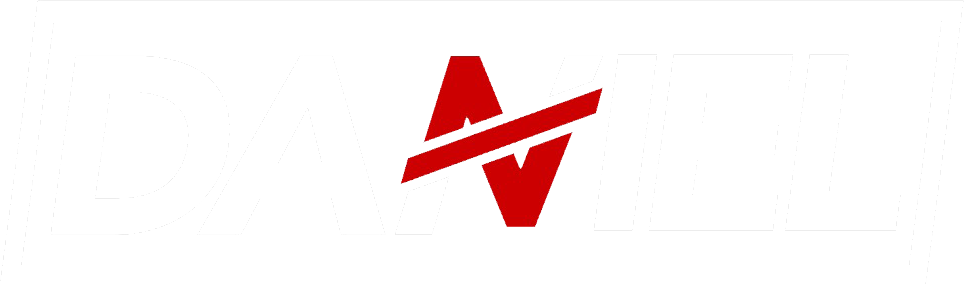
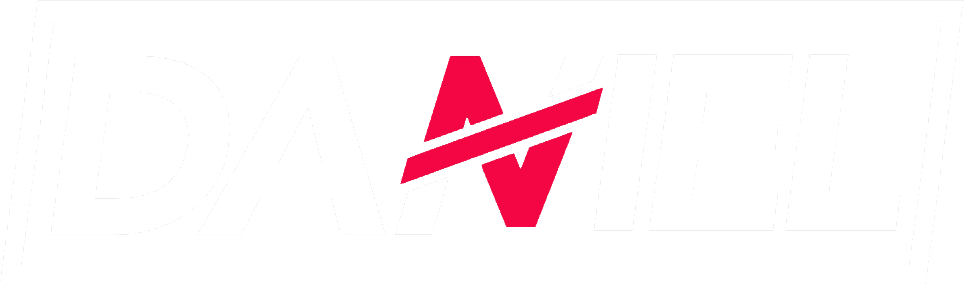
Cambios en los colores

Changed region(s): [[0.4046, 0.1972, 0.6224, 0.8169]]

diff --git a/src/sass/main.scss b/src/sass/main.scss
@@ -628,7 +628,7 @@ select.portfolio-filter-mobile {
 				color: #454360;
 
 				&:hover {
-					color: #FF4C60;
+					color: #F40543;
 				}
 			}
 		}
@@ -693,10 +693,10 @@ select.portfolio-filter-mobile {
 	}
 
 	.blog-standard .meta li a {
-		color: #353353;
+		color: #05253A;
 
 		&:hover {
-			color: #ff4c60;
+			color: #F40543;
 		}
 	}
 
@@ -710,7 +710,7 @@ select.portfolio-filter-mobile {
 			line-height: 1;
 			padding: 12px 32px;
 			color: #fff;
-			background: #ff4c60;
+			background: #F40543;
 			display: inline-block;
 			vertical-align: middle;
 			position: relative;
@@ -760,7 +760,7 @@ select.portfolio-filter-mobile {
 
 	.widget .searchform input[type=submit] {
 		color: #fff;
-		background: #ff4c60;
+		background: #F40543;
 		border-radius: 25px;
 		padding: 5px 20px;
 		border: 0;
@@ -840,7 +840,7 @@ select.portfolio-filter-mobile {
 		line-height: 1;
 		padding: 12px 32px;
 		color: #fff;
-		background: #ff4c60;
+		background: #F40543;
 		display: inline-block;
 		vertical-align: middle;
 		position: relative;
@@ -914,7 +914,7 @@ select.portfolio-filter-mobile {
 						border-radius: 20px;
 						padding: 0px 10px;
 						display: inline-block;
-						background-color: #ff4c60;
+						background-color: #F40543;
 					}
 				}
 			}

diff --git a/src/components/sections/About.js b/src/components/sections/About.js
@@ -27,7 +27,7 @@ const progressData = [
     id: 2,
     title: "Desarrollo de interfases UX/UI",
     percantage: 95,
-    progressColor: "#FF4C60",
+    progressColor: "#F40543",
   },
   {
     id: 3,
@@ -65,14 +65,14 @@ const progressData = [
 const counterData = [
   {
     id: 1,
-    title: "Proyecos Completados",
+    title: "Proyectos Completados",
     count: 25,
     icon: "icon-fire",
   },
   {
     id: 2,
     title: "Tazas de Cafe",
-    count: 3549,
+    count: 4130,
     icon: "icon-cup",
   },
   {
@@ -107,11 +107,11 @@ function About() {
               <div className="row">
                 <div className="col-md-6">
                   <p style={{ textAlign: "justify" }}>{aboutContent.content}</p>
-                  <div className="mt-4">
+                  {/* <div className="mt-4">
                     <a href="!#" className="btn btn-default">
                       Descargar CV
                     </a>
-                  </div>
+                  </div> */}
                   <div
                     className="spacer d-md-none d-lg-none"
                     data-height="30"

diff --git a/src/components/sections/Herosection.js b/src/components/sections/Herosection.js
@@ -129,7 +129,7 @@ function Herosection(props) {
           >
             <path
               d="M13 3.3541L2.42705 24.5h21.1459L13 3.3541z"
-              stroke="#FF4C60"
+              stroke="#F40543"
               strokeWidth="3"
               fill="none"
               fillRule="evenodd"
@@ -193,7 +193,7 @@ function Herosection(props) {
             xmlns="http://www.w3.org/2000/svg"
             style={activeParallax(18)}
           >
-            <g fill="#FF4C60" fillRule="evenodd">
+            <g fill="#F40543" fillRule="evenodd">
               <path d="M.5 16.5c0-5.71709 2.3825-10.99895 6.25-13.8567 3.8675-2.85774 8.6325-2.85774 12.5 0C23.1175 5.50106 25.5 10.78292 25.5 16.5H23c0-4.57303-1.90625-8.79884-5-11.08535-3.09375-2.28652-6.90625-2.28652-10 0C4.90625 7.70116 3 11.92697 3 16.5H.5z" />
               <path d="M23.5 16.5c0-5.71709 2.3825-10.99895 6.25-13.8567 3.8675-2.85774 8.6325-2.85774 12.5 0C46.1175 5.50106 48.5 10.78292 48.5 16.5H46c0-4.57303-1.90625-8.79884-5-11.08535-3.09375-2.28652-6.90625-2.28652-10 0-3.09375 2.28651-5 6.51232-5 11.08535h-2.5z" />
             </g>

diff --git a/src/components/sections/HerosectionLight.js b/src/components/sections/HerosectionLight.js
@@ -117,7 +117,7 @@ function Herosection(props) {
           >
             <path
               d="M13 3.3541L2.42705 24.5h21.1459L13 3.3541z"
-              stroke="#FF4C60"
+              stroke="#F40543"
               strokeWidth="3"
               fill="none"
               fillRule="evenodd"
@@ -181,7 +181,7 @@ function Herosection(props) {
             xmlns="http://www.w3.org/2000/svg"
             style={activeParallax(18)}
           >
-            <g fill="#FF4C60" fillRule="evenodd">
+            <g fill="#F40543" fillRule="evenodd">
               <path d="M.5 16.5c0-5.71709 2.3825-10.99895 6.25-13.8567 3.8675-2.85774 8.6325-2.85774 12.5 0C23.1175 5.50106 25.5 10.78292 25.5 16.5H23c0-4.57303-1.90625-8.79884-5-11.08535-3.09375-2.28652-6.90625-2.28652-10 0C4.90625 7.70116 3 11.92697 3 16.5H.5z" />
               <path d="M23.5 16.5c0-5.71709 2.3825-10.99895 6.25-13.8567 3.8675-2.85774 8.6325-2.85774 12.5 0C46.1175 5.50106 48.5 10.78292 48.5 16.5H46c0-4.57303-1.90625-8.79884-5-11.08535-3.09375-2.28652-6.90625-2.28652-10 0-3.09375 2.28651-5 6.51232-5 11.08535h-2.5z" />
             </g>

diff --git a/src/pages/Homepage.js b/src/pages/Homepage.js
@@ -60,9 +60,9 @@ function Homepage() {
         <Element name="section-works">
           <Works />
         </Element>
-        <Element name="section-instagram">
+        {/* <Element name="section-instagram">
           <Instagram />
-        </Element>
+        </Element> */}
         <Element name="section-pricing">
           <Pricing />
         </Element>

diff --git a/src/components/layouts/Header.js b/src/components/layouts/Header.js
@@ -123,7 +123,7 @@ function Header({ light, logoSource, toggleMenu, headerToggler }) {
 
         <div className="footer">
           <span className="copyright">
-            &copy; {new Date().getFullYear()} @UpDavo
+            &copy; {new Date().getFullYear()} UpDavo - Sitio creado con React & Node
           </span>
         </div>
       </header>

diff --git a/src/sass/mixins.scss b/src/sass/mixins.scss
@@ -1,8 +1,8 @@
 $fonthead: 'Rubik', sans-serif;
 $fontstack: 'Rubik', sans-serif;
-$colordark: #353353;
-$coloryellow: #b34545;
-$colorpink: #FF4C60;
+$colordark: #05253A;
+$coloryellow: #F40543;
+$colorpink: #F40543;
 $colorblue: #6C6CE5;
 $colordefault: #454360;
 

diff --git a/src/sass/dark.scss b/src/sass/dark.scss
@@ -73,7 +73,7 @@ body.dark {
 
     .content-blog,
     .blog-page-section {
-        background: #353353;
+        background: #05253A;
     }
 
     .bg-white {
